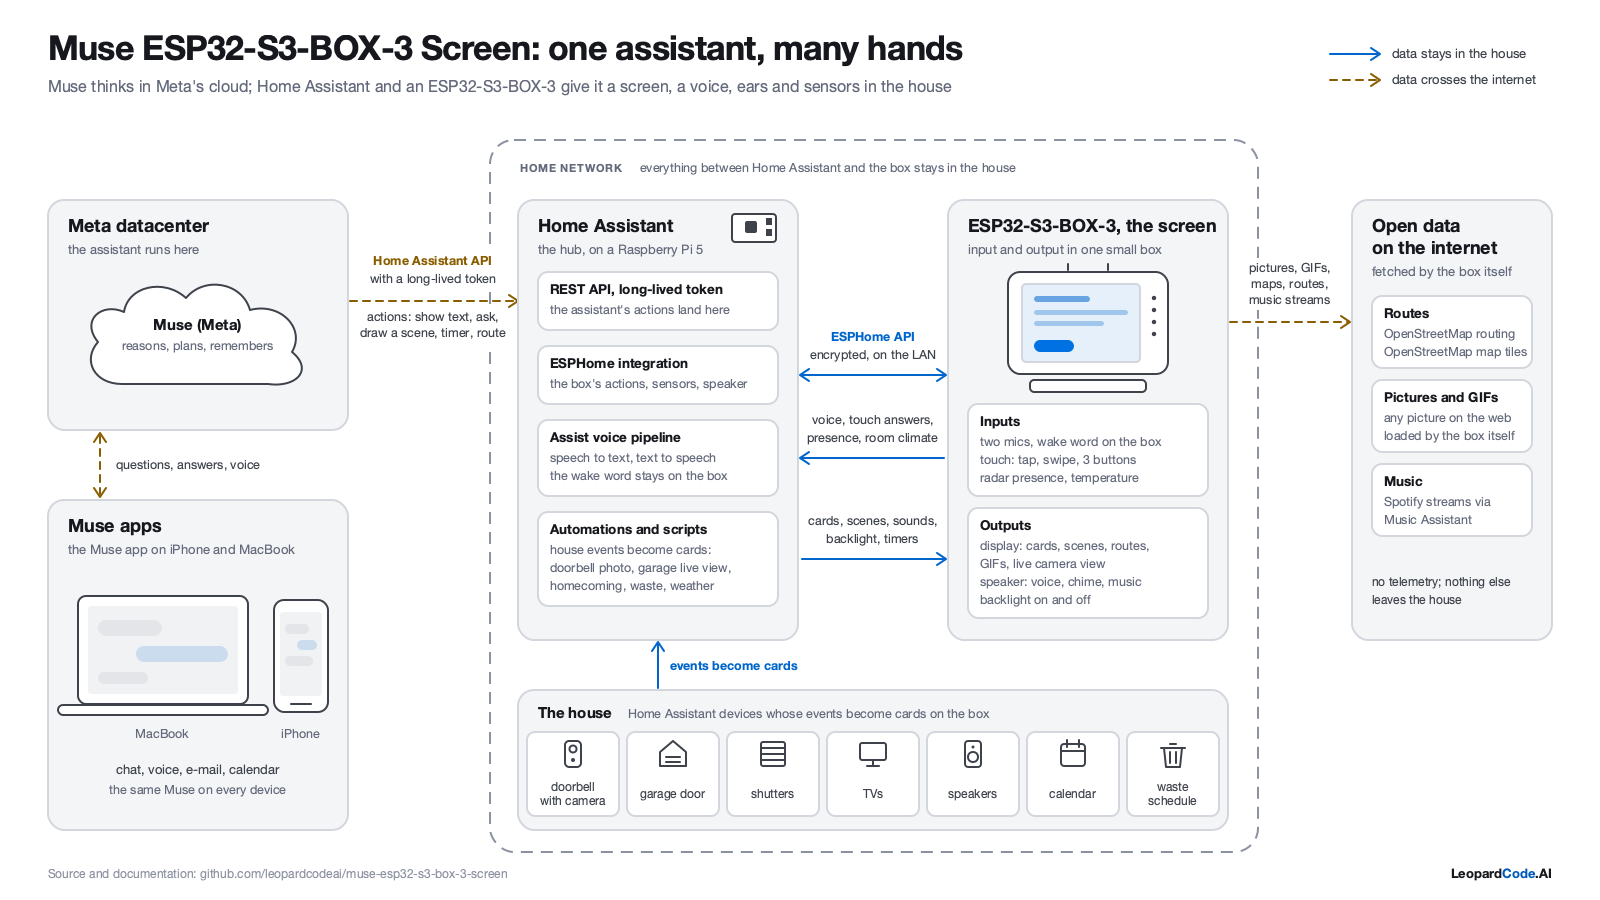
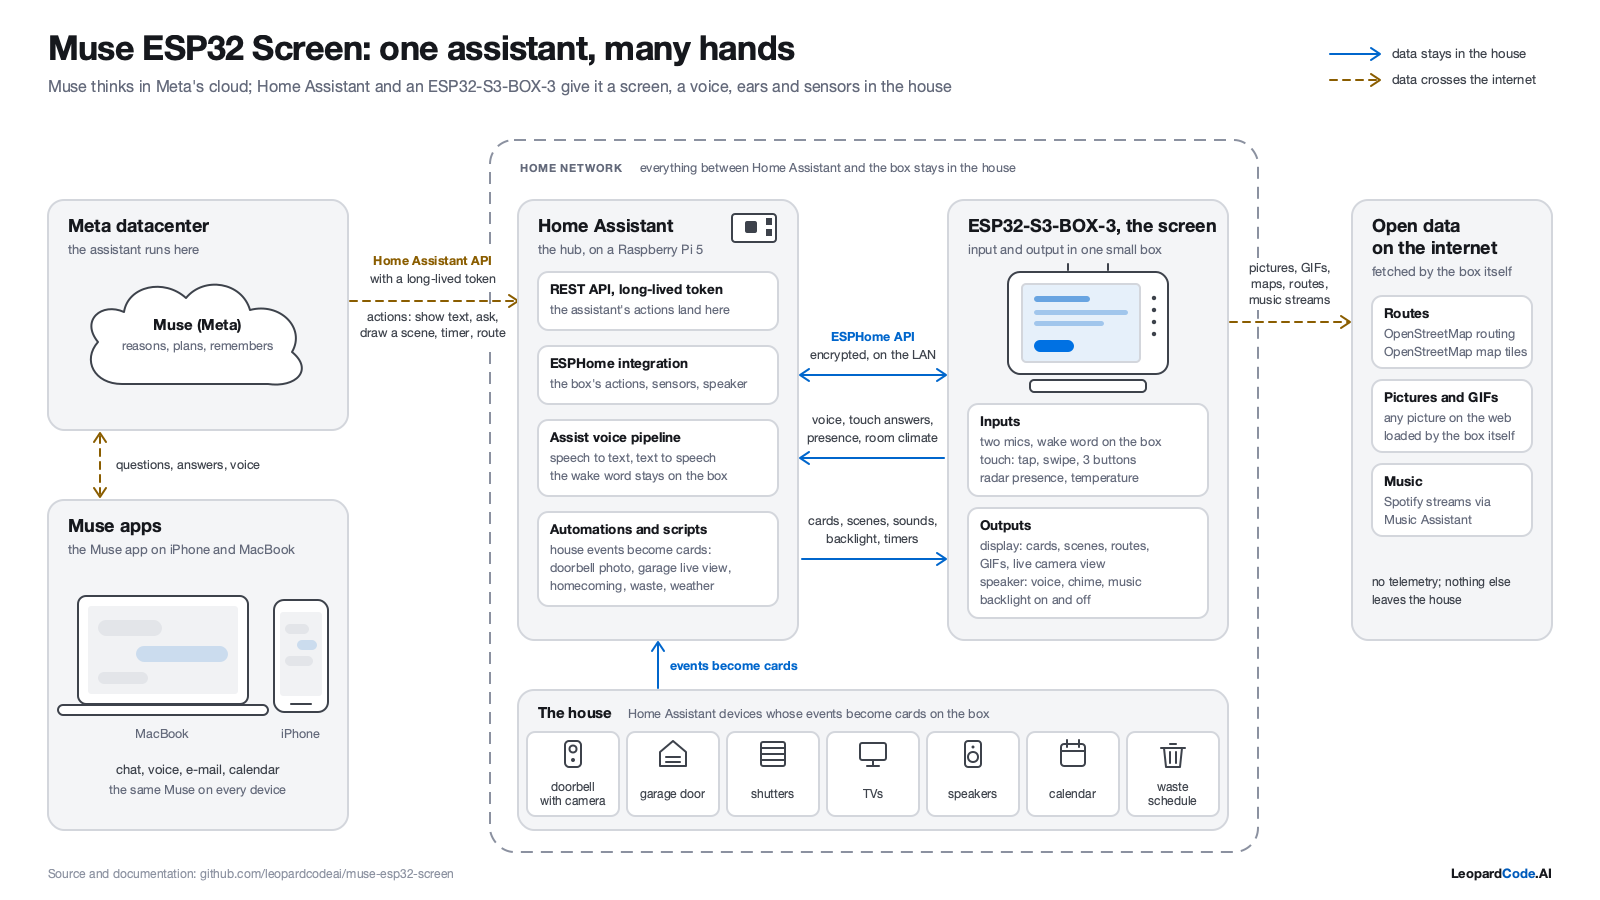
Rename pass: Muse ESP32 Screen wherever the project is meant
NOTICE, the assistant prompt (English and German), the system diagram (SVG and PNG),
the web app's descriptions, web/README.md, a Home Assistant script description, the
firmware's header comment and the picture task's user agent (Muse-ESP32-Screen/4.3,
with the next flash; docs/PRIVACY.md follows). The social preview is rendered again in
the same style with the new name, the ESP32-S31 and the new address. Board names,
device names, action names, firmware file names and historical changelog entries stay.

Changed region(s): [[0.1562, 0.0311, 0.625, 0.0933], [0.2812, 0.9644, 0.3125, 0.9956]]

diff --git a/web/index.html b/web/index.html
@@ -4,7 +4,7 @@
   <meta charset="utf-8">
   <meta name="viewport" content="width=device-width, initial-scale=1, viewport-fit=cover">
   <title>Muse Web Screen</title>
-  <meta name="description" content="Muse Web Screen: the twin of the Muse ESP32-S3-BOX-3 Screen in the browser, an always-on display of the assistant's cards and scenes.">
+  <meta name="description" content="Muse Web Screen: the twin of the Muse ESP32 Screen in the browser, an always-on display of the assistant's cards and scenes.">
   <meta name="theme-color" content="#f3f3f3">
   <meta name="apple-mobile-web-app-capable" content="yes">
   <meta name="apple-mobile-web-app-status-bar-style" content="default">

diff --git a/firmware/muse_media.h b/firmware/muse_media.h
@@ -197,7 +197,7 @@ inline bool http_get_once(const std::string &url, Download &d, size_t max, uint3
     cfg.crt_bundle_attach = esp_crt_bundle_attach;
     // The map and routing services want a way to reach whoever sends the request; without
     // a URL here a map service answered 403 (07.10.2026).
-    cfg.user_agent = "Muse-ESP32-S3-BOX-3-Screen/4.3 (ESPHome; +https://github.com/leopardcodeai/muse-esp32-screen)";
+    cfg.user_agent = "Muse-ESP32-Screen/4.3 (ESPHome; +https://github.com/leopardcodeai/muse-esp32-screen)";
     cfg.max_redirection_count = 5;
     cfg.event_handler = on_http_event;
     cfg.user_data = &d;

diff --git a/web/README.md b/web/README.md
@@ -1,6 +1,6 @@
 # Muse Web Screen: the box's twin in the browser
 
-The ESP32-S3-BOX-3 of the [Muse ESP32-S3-BOX-3 Screen](https://github.com/leopardcodeai/muse-esp32-screen) (the box `muse-esp32-s3-box-3-screen`) shows what the assistant sends: cards, questions, timers and scenes in its own drawing language. `web/` is the same display in a browser, **Muse Web Screen**: a canvas of 320 x 240 logical pixels, scaled up with its aspect kept and drawn at the screen's own resolution, that draws the same cards with the same fonts, colours, positions and timings, parses scenes with the same parser (same commands, keys, defaults, limits and error messages, suggestions included) and plays them with the same particle formulas. The box draws ten pictures a second; the web display draws up to 60 (a setting, with a box-exact 10 for the side-by-side test), always from the time in milliseconds, so a scene looks like it does on the box, only bigger and smoother. It mirrors the box through Home Assistant, installs as a Dock app and floats above every other window.
+The ESP32-S3-BOX-3 of [Muse ESP32 Screen](https://github.com/leopardcodeai/muse-esp32-screen) (the box `muse-esp32-s3-box-3-screen`) shows what the assistant sends: cards, questions, timers and scenes in its own drawing language. `web/` is the same display in a browser, **Muse Web Screen**: a canvas of 320 x 240 logical pixels, scaled up with its aspect kept and drawn at the screen's own resolution, that draws the same cards with the same fonts, colours, positions and timings, parses scenes with the same parser (same commands, keys, defaults, limits and error messages, suggestions included) and plays them with the same particle formulas. The box draws ten pictures a second; the web display draws up to 60 (a setting, with a box-exact 10 for the side-by-side test), always from the time in milliseconds, so a scene looks like it does on the box, only bigger and smoother. It mirrors the box through Home Assistant, installs as a Dock app and floats above every other window.
 
 **Hosted:** https://muse-web-screen.vercel.app opens in demo mode on a first visit, without any Home Assistant (see [Connecting from the hosted page](#connecting-from-the-hosted-page) before you enter a Home Assistant URL there).
 

diff --git a/CHANGELOG.md b/CHANGELOG.md
@@ -4,7 +4,7 @@ The version is `esphome: project: version` in `firmware/muse-esp32-s3-box-3-scre
 
 ## Muse Web Screen 1.4.0, 24 October 2026 (firmware 4.3.0 with one layout fix for the next flash)
 
-- The project is called Muse ESP32 Screen and lives at github.com/leopardcodeai/muse-esp32-screen, because it now targets more than one ESP32 board (the ESP32-S3-BOX-3 and the ESP32-S31 of Espressif's ESP-Mosaico). Every earlier address redirects. Device names, action names and the firmware file stay as they are.
+- The project is called Muse ESP32 Screen and lives at github.com/leopardcodeai/muse-esp32-screen, because it now targets more than one ESP32 board (the ESP32-S3-BOX-3 and the ESP32-S31 of Espressif's ESP-Mosaico). Every earlier address redirects. Device names, action names and the firmware file stay as they are. The project name follows in NOTICE, the assistant prompt, the system diagram, the social preview and the web app's descriptions; the user agent of the box's picture task becomes `Muse-ESP32-Screen/4.3` with the next flash.
 - Square layout, 480 x 480 (`index.html?layout=square` or the new Layout setting), for the ESP-Mosaico port and the camera add-on: every action, cards slide in and fade out, the status dot pulses while listening or thinking, the timer arc moves smoothly, celebrate adds a confetti burst, and nothing is redrawn while nothing moves. The 320 x 240 layout renders pixel for pixel as before. Design: docs/SQUARE_LAYOUT.md.
 - The square layout's top looks like the box's top bar, a phone's status bar: the name top left with the timer chip and the "+N" badge right after it, the clock in the middle, the connection dot on the right. The ready screen shows its status once, in a bubble under the figure, as the box shows its pill; the status pill top left and the second status line below the figure are gone, and the celebration's title and message take the bubble's place. Cards start at y 62. The geometry is the ESP-Mosaico firmware's; with both chips showing the clock moves right of them.
 - Your own character: `tools/make_figure.py --from-image` turns one picture into the full set of animations for the box and the browser (docs/OWN_FIGURE.md); `--size` and `--avatar` serve the square layout.

diff --git a/docs/ASSISTANT_PROMPT.md b/docs/ASSISTANT_PROMPT.md
@@ -11,7 +11,7 @@ one says the same.
 
 ```text
 You have a small display with a speaker and a microphone in the house: an ESP32-S3-BOX-3
-running "Muse ESP32-S3-BOX-3 Screen", reachable through Home Assistant as device "muse-esp32-s3-box-3-screen". Use
+running "Muse ESP32 Screen", reachable through Home Assistant as device "muse-esp32-s3-box-3-screen". Use
 it generously: show what you answer, ask back with buttons, draw your own pictures.
 
 RULES
@@ -115,7 +115,7 @@ press there: the box listens. The switch on top mutes the microphones ("Mikrofon
 
 ```text
 Du hast im Haus ein kleines Display mit Lautsprecher und Mikrofon: eine ESP32-S3-BOX-3 mit
-"Muse ESP32-S3-BOX-3 Screen", erreichbar über Home Assistant als Gerät "muse-esp32-s3-box-3-screen". Nutze es
+"Muse ESP32 Screen", erreichbar über Home Assistant als Gerät "muse-esp32-s3-box-3-screen". Nutze es
 großzügig: Zeig, was du antwortest, frag mit Tasten zurück, mal eigene Bilder.
 
 REGELN

diff --git a/docs/PRIVACY.md b/docs/PRIVACY.md
@@ -15,7 +15,7 @@ Nothing is sent to LeopardCode.AI, and the firmware has no telemetry.
 
 The user agent of the box's own picture task names this repository, as the tile and
 routing services ask for a way to reach whoever sends requests
-(`Muse-ESP32-S3-BOX-3-Screen/4.2 (ESPHome; +https://github.com/leopardcodeai/muse-esp32-screen)`).
+(`Muse-ESP32-Screen/4.3 (ESPHome; +https://github.com/leopardcodeai/muse-esp32-screen)`).
 Until 4.0 the map came as one picture from maps.wikimedia.org; its terms allow that for
 Wikimedia projects only, so 4.1 switched to tiles from a server you choose.
 

diff --git a/docs/TRY_WITHOUT_A_BOX.md b/docs/TRY_WITHOUT_A_BOX.md
@@ -96,7 +96,7 @@ alias: Muse Web Screen card
 description: >-
   Shows a card or a scene on Muse Web Screen. action is one of show_text, show_value,
   show_weather, show_event, show_image, show_list, show_agenda, show_timer, ask, choose,
-  celebrate, draw, clear; fields as in docs/ACTIONS.md of muse-esp32-s3-box-3-screen.
+  celebrate, draw, clear; fields as in docs/ACTIONS.md of muse-esp32-screen.
 mode: queued
 fields:
   action:

diff --git a/docs/diagram/README.md b/docs/diagram/README.md
@@ -4,7 +4,7 @@
 what stays in the house. `system.png` is the same picture rendered at 1600 px for places
 that cannot show an SVG.
 
-![System diagram of Muse ESP32-S3-BOX-3 Screen](system.svg)
+![System diagram of Muse ESP32 Screen](system.svg)
 
 ## What it shows, left to right
 
